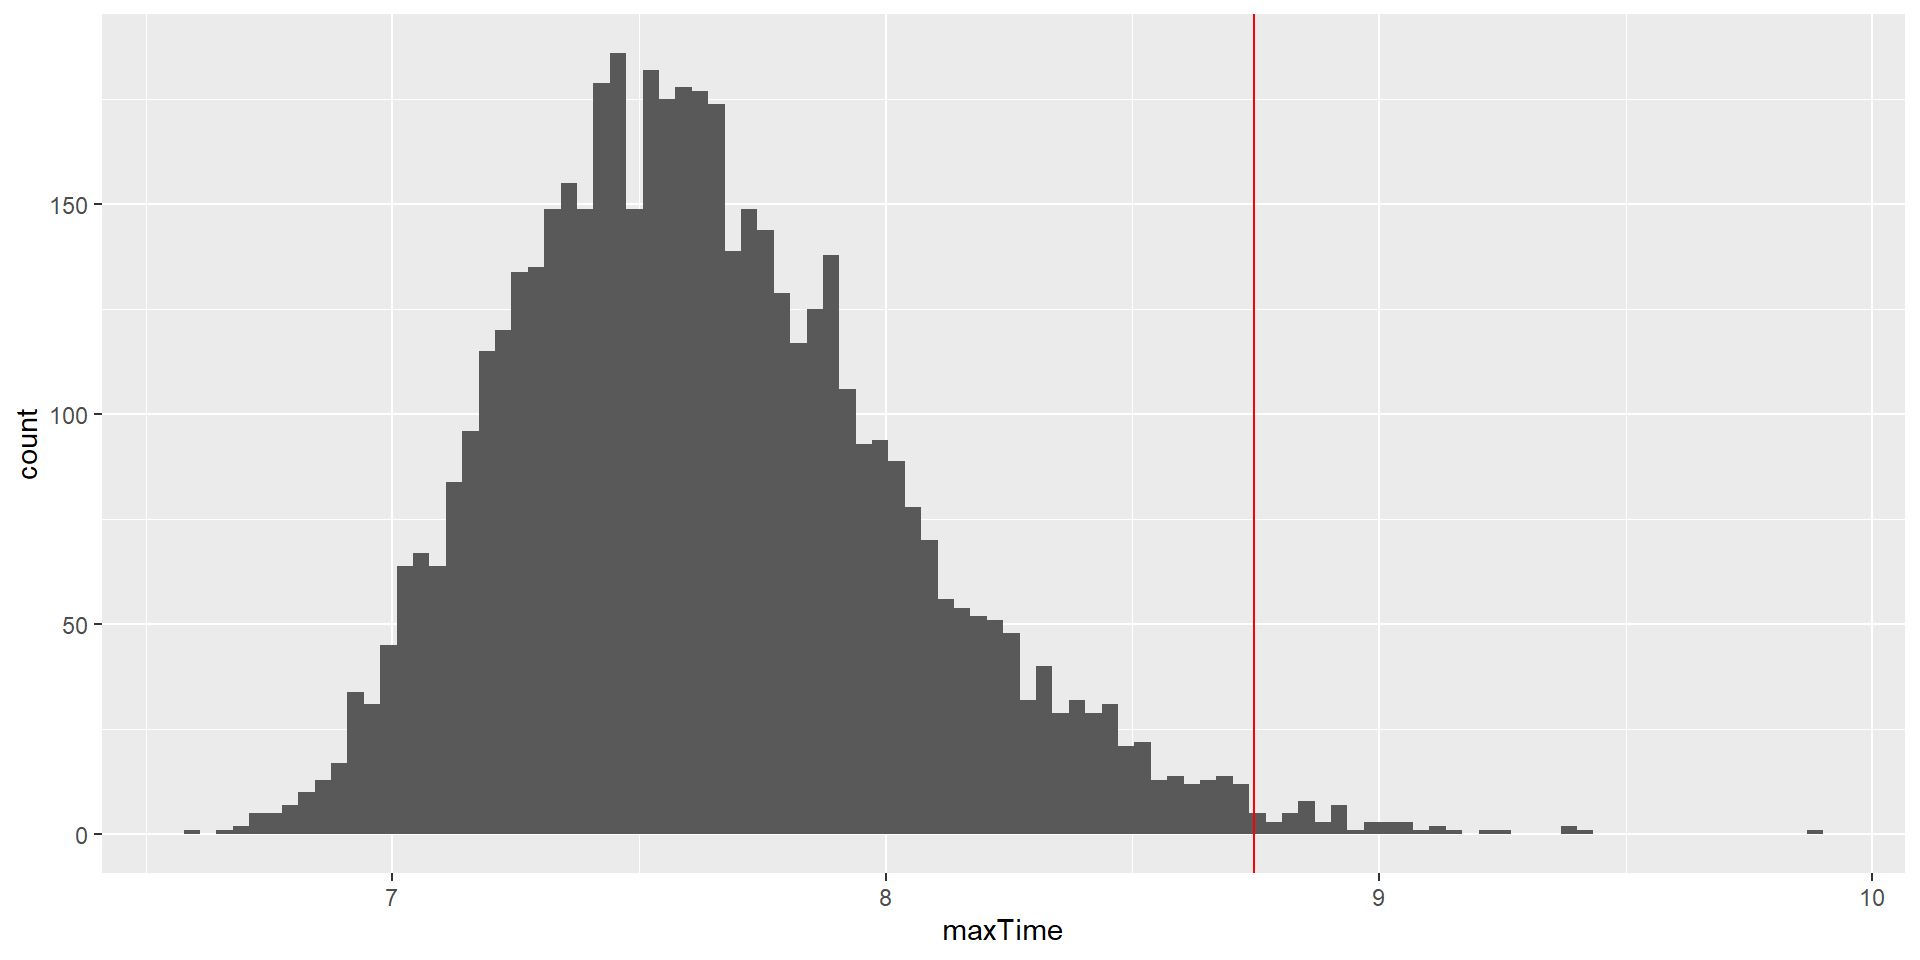
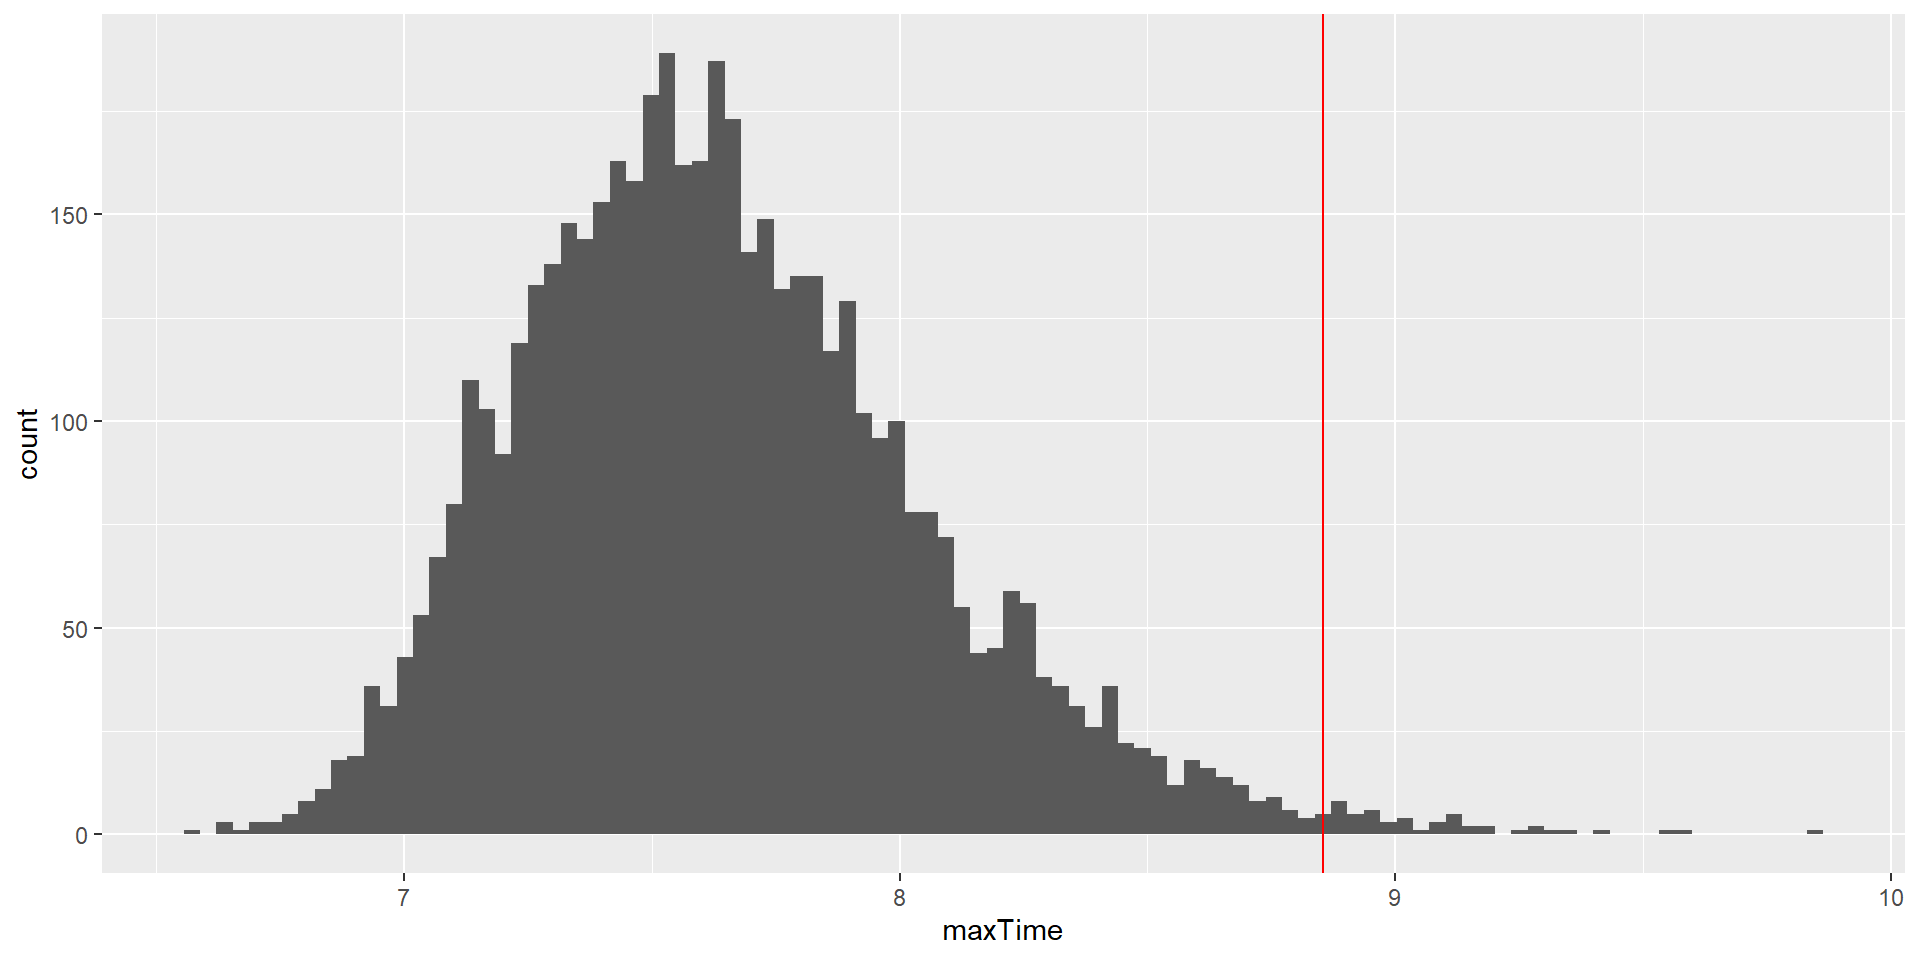
Built site for gh-pages

diff --git a/W6_Sampling.html b/W6_Sampling.html
@@ -288,24 +288,24 @@ Dr.&nbsp;Lea Hildebrandt
 </thead>
 <tbody>
 <tr class="odd">
-<td style="text-align: right;">168.370</td>
-<td style="text-align: right;">11.505478</td>
+<td style="text-align: right;">168.024</td>
+<td style="text-align: right;">9.262555</td>
 </tr>
 <tr class="even">
-<td style="text-align: right;">169.050</td>
-<td style="text-align: right;">9.484321</td>
+<td style="text-align: right;">169.128</td>
+<td style="text-align: right;">9.163348</td>
 </tr>
 <tr class="odd">
-<td style="text-align: right;">168.840</td>
-<td style="text-align: right;">9.853063</td>
+<td style="text-align: right;">168.784</td>
+<td style="text-align: right;">11.519112</td>
 </tr>
 <tr class="even">
-<td style="text-align: right;">168.274</td>
-<td style="text-align: right;">9.228567</td>
+<td style="text-align: right;">169.102</td>
+<td style="text-align: right;">11.602155</td>
 </tr>
 <tr class="odd">
-<td style="text-align: right;">166.854</td>
-<td style="text-align: right;">12.152151</td>
+<td style="text-align: right;">170.232</td>
+<td style="text-align: right;">10.445220</td>
 </tr>
 </tbody>
 </table>
@@ -651,14 +651,14 @@ This value is the amount of time that we should allow - <em>given our assumption
 <span id="cb10-14"><a></a><span class="fu">print</span>(cutoff)</span></code><button title="Copy to Clipboard" class="code-copy-button"><i class="bi"></i></button></pre></div>
 <div class="cell-output cell-output-stdout">
 <pre><code>     99% 
-8.847807 </code></pre>
+8.873147 </code></pre>
 </div>
 </div>
 </section>
 <section id="using-monte-carlo-simulations-4" class="slide level2">
 <h2>Using Monte Carlo Simulations 4</h2>
 
-<img data-src="W6_Sampling_files/figure-revealjs/unnamed-chunk-14-1.png" width="960" class="r-stretch"><p>This shows that the 99th percentile of the finishing time distribution falls at 8.7458473 minutes, meaning that if we were to give that much time for the quiz, then we expect that in 99% of quizzes, every student would finish.</p>
+<img data-src="W6_Sampling_files/figure-revealjs/unnamed-chunk-14-1.png" width="960" class="r-stretch"><p>This shows that the 99th percentile of the finishing time distribution falls at 8.8544283 minutes, meaning that if we were to give that much time for the quiz, then we expect that in 99% of quizzes, every student would finish.</p>
 <aside class="notes">
 <p>Assumptions matter, otherwise results wrong! (We assumed: normal dist w/ particular mean and SD). Here assumptions certainly wrong –&gt; elapsed time not normal</p>
 <style type="text/css">
@@ -714,11 +714,11 @@ This value is the amount of time that we should allow - <em>given our assumption
 <span id="cb12-21"><a></a></span>
 <span id="cb12-22"><a></a>SEM_standard</span></code><button title="Copy to Clipboard" class="code-copy-button"><i class="bi"></i></button></pre></div>
 <div class="cell-output cell-output-stdout">
-<pre><code>[1] 1.982035</code></pre>
+<pre><code>[1] 1.733557</code></pre>
 </div>
 <div class="sourceCode cell-code" id="cb14"><pre class="sourceCode numberSource r number-lines code-with-copy"><code class="sourceCode r"><span id="cb14-1"><a></a>SEM_bootstrap</span></code><button title="Copy to Clipboard" class="code-copy-button"><i class="bi"></i></button></pre></div>
 <div class="cell-output cell-output-stdout">
-<pre><code>[1] 1.898898</code></pre>
+<pre><code>[1] 1.66768</code></pre>
 </div>
 </div>
 </div><div class="column">
@@ -799,7 +799,7 @@ Model-based procedures (like most statistical tests we will cover in this class)
 </div>
 <div class="sourceCode cell-code" id="cb20"><pre class="sourceCode numberSource r number-lines code-with-copy"><code class="sourceCode r"><span id="cb20-1"><a></a><span class="fu">sd</span>(mean_bootstrap_20)</span></code><button title="Copy to Clipboard" class="code-copy-button"><i class="bi"></i></button></pre></div>
 <div class="cell-output cell-output-stdout">
-<pre><code>[1] 0.4671166</code></pre>
+<pre><code>[1] 0.4222697</code></pre>
 </div>
 </div>
 <p>We can conclude that the SEM is smaller with a larger sample size, which means we can be more certain about our estimate! (We already knew this from the <span class="math inline">\(\sqrt{n}\)</span> in the denominator of the SE formular but it’s nice to see it confirmed.)</p>

diff --git a/W3_DataWranglingR.html b/W3_DataWranglingR.html
@@ -588,7 +588,6 @@ Remember that you can run <code>?select</code> in the console if you need help a
 <span id="cb29-8"><a></a>  babynames <span class="sc">%&gt;%</span> </span>
 <span id="cb29-9"><a></a>  <span class="fu">select</span>(<span class="sc">-</span>n) <span class="co"># remove columns by using -</span></span></code><button title="Copy to Clipboard" class="code-copy-button"><i class="bi"></i></button></pre></div>
 </div>
-<p>Removing columns vs.&nbsp;selecting columns: Results may change if the data get updated!</p>
 
 <aside class="notes">
 <p>Similar to optional spaces for better readability, R allows for optional line breakes. You can try out what works best for you or look up some style guides.</p>
@@ -605,7 +604,7 @@ Remember that you can run <code>?select</code> in the console if you need help a
       }</style></aside>
 </div>
 <aside><div>
-<p>It is encouraged to use many line breakes for better readability. Check out the <u><a href="https://style.tidyverse.org/syntax.html#long-lines">Tidyverse Style Guide</a></u> for suggestions.</p>
+<p>It is encouraged to use many line breaks for better readability. Check out the <u><a href="https://style.tidyverse.org/syntax.html#long-lines">Tidyverse Style Guide</a></u> for suggestions.</p>
 </div></aside></section>
 <section id="arranging-data" class="slide level2 scrollable">
 <h2>Arranging Data</h2>
@@ -900,16 +899,16 @@ Also, there are slight differences between <code>&lt;-</code> and <code>=</code>
 <pre><code># A tibble: 10 × 2
     year decade
    &lt;dbl&gt;  &lt;dbl&gt;
- 1  1886   1880
- 2  1911   1910
- 3  1922   1920
- 4  1923   1920
- 5  1924   1920
- 6  1931   1930
- 7  1934   1930
- 8  1938   1930
- 9  1956   1950
-10  1970   1970</code></pre>
+ 1  1903   1900
+ 2  1905   1900
+ 3  1906   1900
+ 4  1916   1910
+ 5  1927   1920
+ 6  1954   1950
+ 7  1957   1950
+ 8  1974   1970
+ 9  1999   1990
+10  2007   2000</code></pre>
 </div>
 </div>
 </div>
@@ -1006,8 +1005,8 @@ There’s just one row in the resulting data frame, because <code>summarize()</c
 <div class="sourceCode cell-code" id="cb51"><pre class="sourceCode numberSource r number-lines code-with-copy"><code class="sourceCode r"><span id="cb51-1"><a></a>group_sum <span class="ot">&lt;-</span> dat <span class="sc">%&gt;%</span> <span class="fu">group_by</span>(name) <span class="sc">%&gt;%</span> <span class="fu">summarize</span>(<span class="at">total =</span> <span class="fu">sum</span>(n)) </span></code><button title="Copy to Clipboard" class="code-copy-button"><i class="bi"></i></button></pre></div>
 </div>
 <p>We avoid using <code>group_by()</code> like this because it can have unintended side effects.<br>
-It is just part of this class because you will likely encounter it in somebody else’s (old) code.<br>
-<br>
+</p>
+<p><br>
 If you do have to use it, make sure to <code>ungroup()</code> after <code>summarize()</code> (or <code>mutate()</code>) to avoid unintended effects:</p>
 <div class="cell">
 <div class="sourceCode cell-code" id="cb52"><pre class="sourceCode numberSource r number-lines code-with-copy"><code class="sourceCode r"><span id="cb52-1"><a></a>group_sum <span class="ot">&lt;-</span> dat <span class="sc">%&gt;%</span> <span class="fu">group_by</span>(name) <span class="sc">%&gt;%</span> <span class="fu">summarize</span>(<span class="at">total =</span> <span class="fu">sum</span>(n)) <span class="sc">%&gt;%</span> <span class="fu">ungroup</span>()</span>
@@ -1219,7 +1218,7 @@ there are (usually) several rows per participant</p>
 <td>195</td>
 </tr>
 <tr class="even">
-<td>a3</td>
+<td>a2</td>
 <td>2</td>
 <td>220</td>
 </tr>
@@ -1416,7 +1415,7 @@ If you want to convert <code>Time</code> from milliseconds into seconds, what do
 :::
 -->
 <aside class="notes">
-<p>The second table is the tidyest!</p>
+<p>The second table is the tidiest!</p>
 <p>Table 1 has cases and population mixed together in <code>count</code> variable.<br>
 Table 3 mixes them in an awkward character row <code>rate</code>.<br>
 Table 4 is standard wide format.</p>

diff --git a/W5_Probability.html b/W5_Probability.html
@@ -740,17 +740,17 @@ div.cell-output-stdout {
 <div class="sourceCode cell-code" id="cb1"><pre class="sourceCode numberSource r number-lines code-with-copy"><code class="sourceCode r"><span id="cb1-1"><a></a><span class="co">#1</span></span>
 <span id="cb1-2"><a></a><span class="fu">runif</span>(<span class="at">n=</span><span class="dv">1</span>) <span class="co">#default parameters are already set to min=0 and max=1</span></span></code><button title="Copy to Clipboard" class="code-copy-button"><i class="bi"></i></button></pre></div>
 <div class="cell-output cell-output-stdout">
-<pre><code>[1] 0.1185616</code></pre>
+<pre><code>[1] 0.6986218</code></pre>
 </div>
 <div class="sourceCode cell-code" id="cb3"><pre class="sourceCode numberSource r number-lines code-with-copy"><code class="sourceCode r"><span id="cb3-1"><a></a><span class="co">#2</span></span>
 <span id="cb3-2"><a></a><span class="fu">runif</span>(<span class="at">n=</span><span class="dv">100</span>, <span class="at">max=</span><span class="dv">10</span>) <span class="sc">%&gt;%</span> <span class="fu">mean</span>()</span></code><button title="Copy to Clipboard" class="code-copy-button"><i class="bi"></i></button></pre></div>
 <div class="cell-output cell-output-stdout">
-<pre><code>[1] 4.967136</code></pre>
+<pre><code>[1] 5.010572</code></pre>
 </div>
 <div class="sourceCode cell-code" id="cb5"><pre class="sourceCode numberSource r number-lines code-with-copy"><code class="sourceCode r"><span id="cb5-1"><a></a><span class="co">#3</span></span>
 <span id="cb5-2"><a></a><span class="fu">sample</span>(<span class="dv">1</span><span class="sc">:</span><span class="dv">10</span>, <span class="at">size=</span><span class="dv">50</span>, <span class="at">replace=</span>T) <span class="sc">%&gt;%</span> <span class="fu">mean</span>()</span></code><button title="Copy to Clipboard" class="code-copy-button"><i class="bi"></i></button></pre></div>
 <div class="cell-output cell-output-stdout">
-<pre><code>[1] 5.12</code></pre>
+<pre><code>[1] 5.08</code></pre>
 </div>
 <div class="sourceCode cell-code" id="cb7"><pre class="sourceCode numberSource r number-lines code-with-copy"><code class="sourceCode r"><span id="cb7-1"><a></a><span class="co">#4</span></span>
 <span id="cb7-2"><a></a><span class="fu">sample</span>(<span class="fu">c</span>(<span class="st">"Anna"</span>, <span class="st">"Barbara"</span>, <span class="st">"Christina"</span>, <span class="st">"Dana"</span>), <span class="at">size=</span><span class="dv">1</span>)</span></code><button title="Copy to Clipboard" class="code-copy-button"><i class="bi"></i></button></pre></div>
@@ -760,7 +760,7 @@ div.cell-output-stdout {
 <div class="sourceCode cell-code" id="cb9"><pre class="sourceCode numberSource r number-lines code-with-copy"><code class="sourceCode r"><span id="cb9-1"><a></a><span class="co">#5</span></span>
 <span id="cb9-2"><a></a><span class="fu">sample</span>(<span class="fu">c</span>(<span class="st">"Anna"</span>, <span class="st">"Barbara"</span>, <span class="st">"Christina"</span>, <span class="st">"Dana"</span>)) <span class="co">#by default, sample draws all elements in random order</span></span></code><button title="Copy to Clipboard" class="code-copy-button"><i class="bi"></i></button></pre></div>
 <div class="cell-output cell-output-stdout">
-<pre><code>[1] "Christina" "Dana"      "Anna"      "Barbara"  </code></pre>
+<pre><code>[1] "Dana"      "Christina" "Anna"      "Barbara"  </code></pre>
 </div>
 </div>
 </div>

diff --git a/W13_RMarkdown.html b/W13_RMarkdown.html
@@ -375,7 +375,7 @@ div.cell-output-stdout {
 <span id="cb6-2"><a></a>data = tibble(rt = rnorm(n=100, mean=.5, sd=.2))</span>
 <span id="cb6-3"><a></a>```</span>
 <span id="cb6-4"><a></a>We observed an average reaction time of `r data %&gt;% pull(rt) %&gt;% mean() %&gt;% signif(digits=3)` seconds.</span></code><button title="Copy to Clipboard" class="code-copy-button"><i class="bi"></i></button></pre></div>
-<p>We observed an average reaction time of 0.511 seconds.</p>
+<p>We observed an average reaction time of 0.488 seconds.</p>
 <ol start="3" type="1">
 <li>Knit the document and open the output with a double click.</li>
 </ol>
